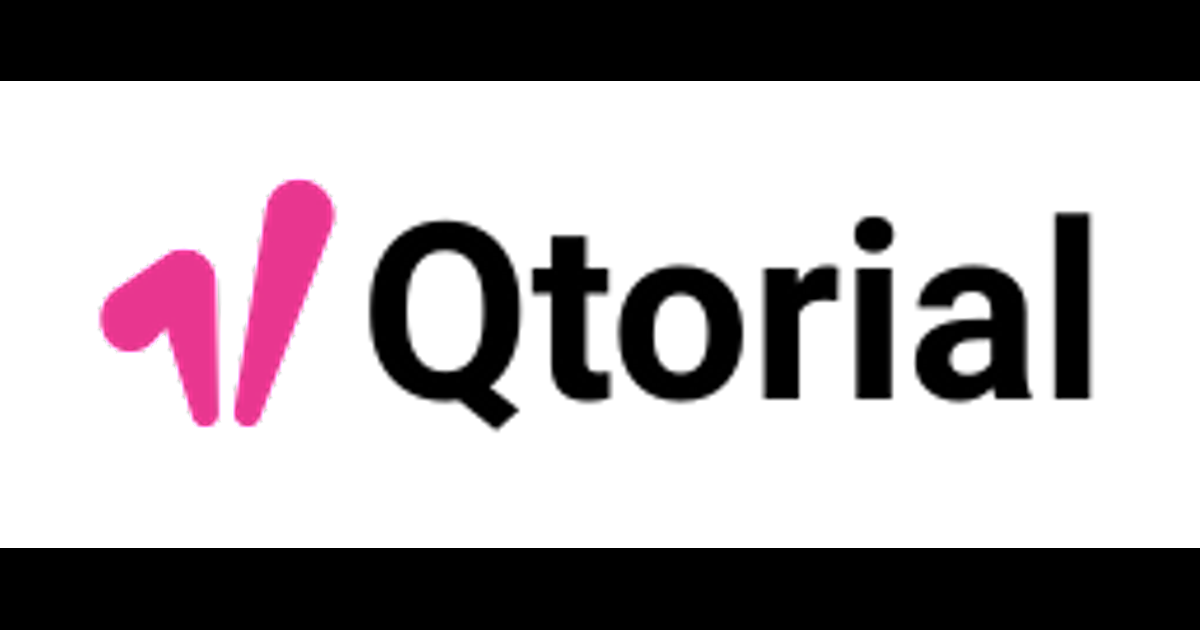
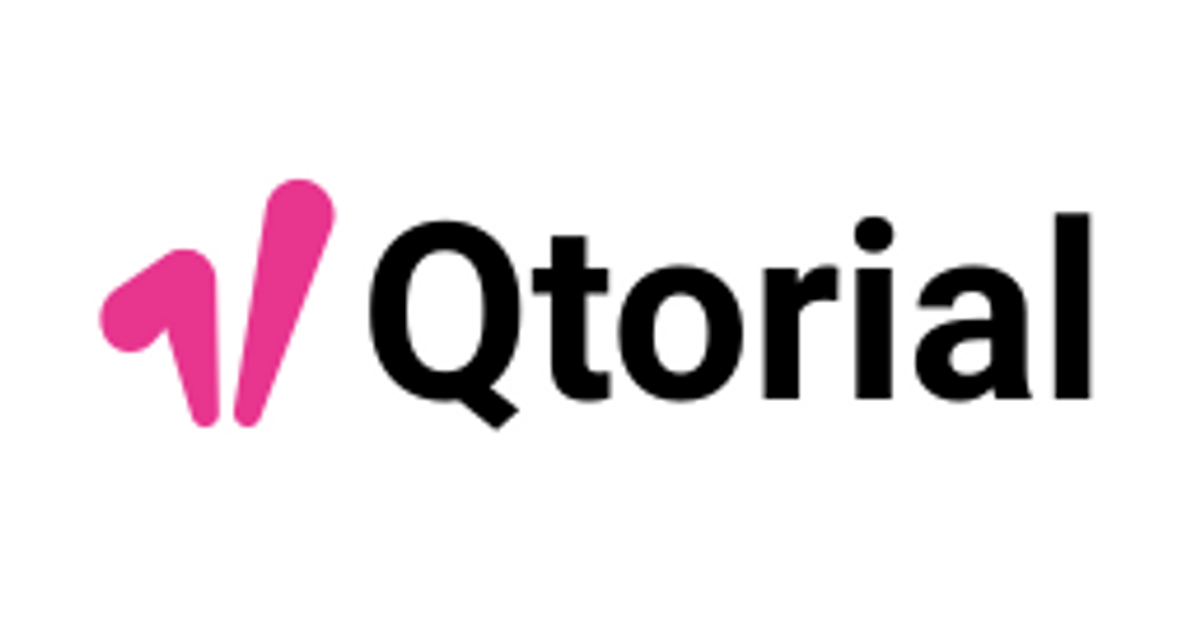
修正

diff --git a/scripts/convert-image.js b/scripts/convert-image.js
@@ -2,7 +2,7 @@
 
 const path = require('path');
 const sharp = require('sharp');
-const input = path.join(__dirname, '../public/img/q-torial.svg');
+const input = path.join(__dirname, 'q-torial.svg');
 const output = path.join(__dirname, '../public/img/q-torial.png');
 
 
@@ -10,6 +10,7 @@ function run() {
   sharp(input)
     .resize(1200, 630, {
       fit: 'contain',
+      background: { r: 255, g: 255, b: 255, alpha: 1 },
     })
     .png()
     .toFile(output)
